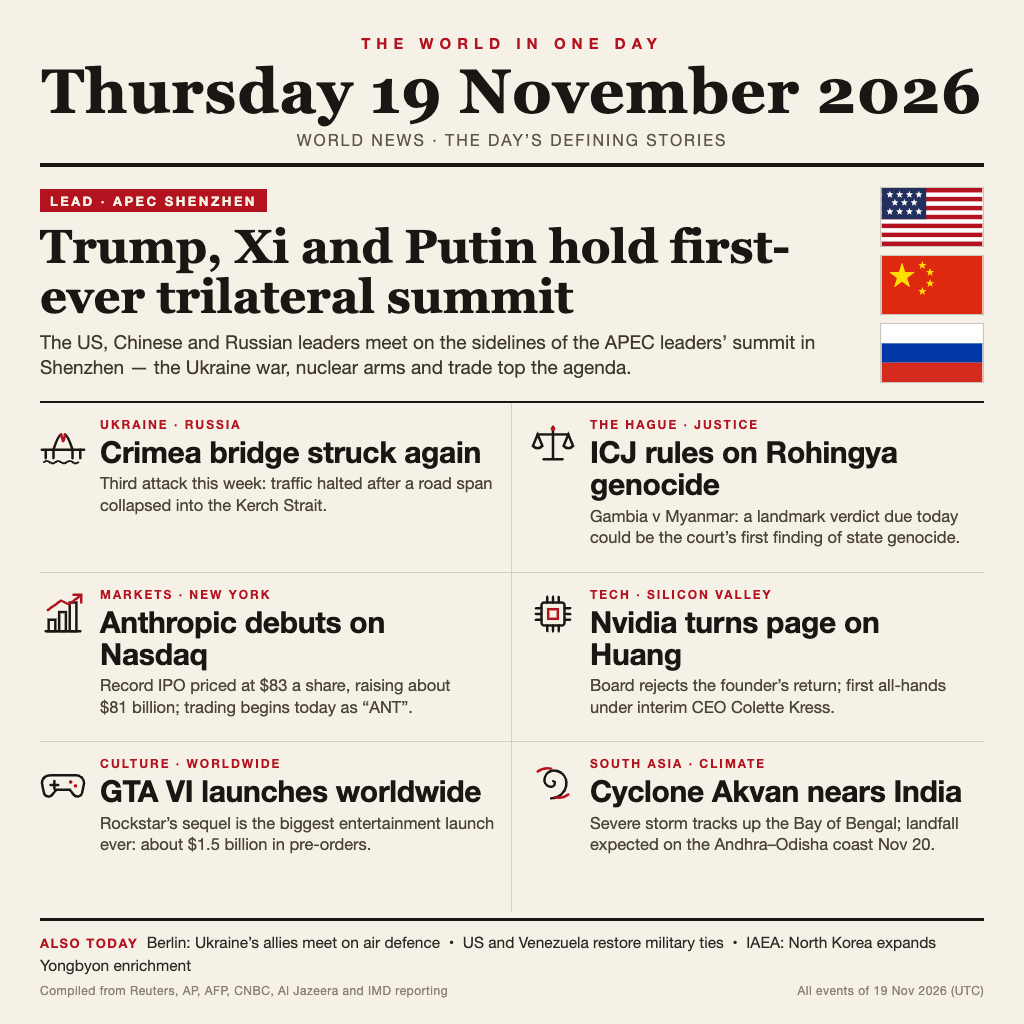
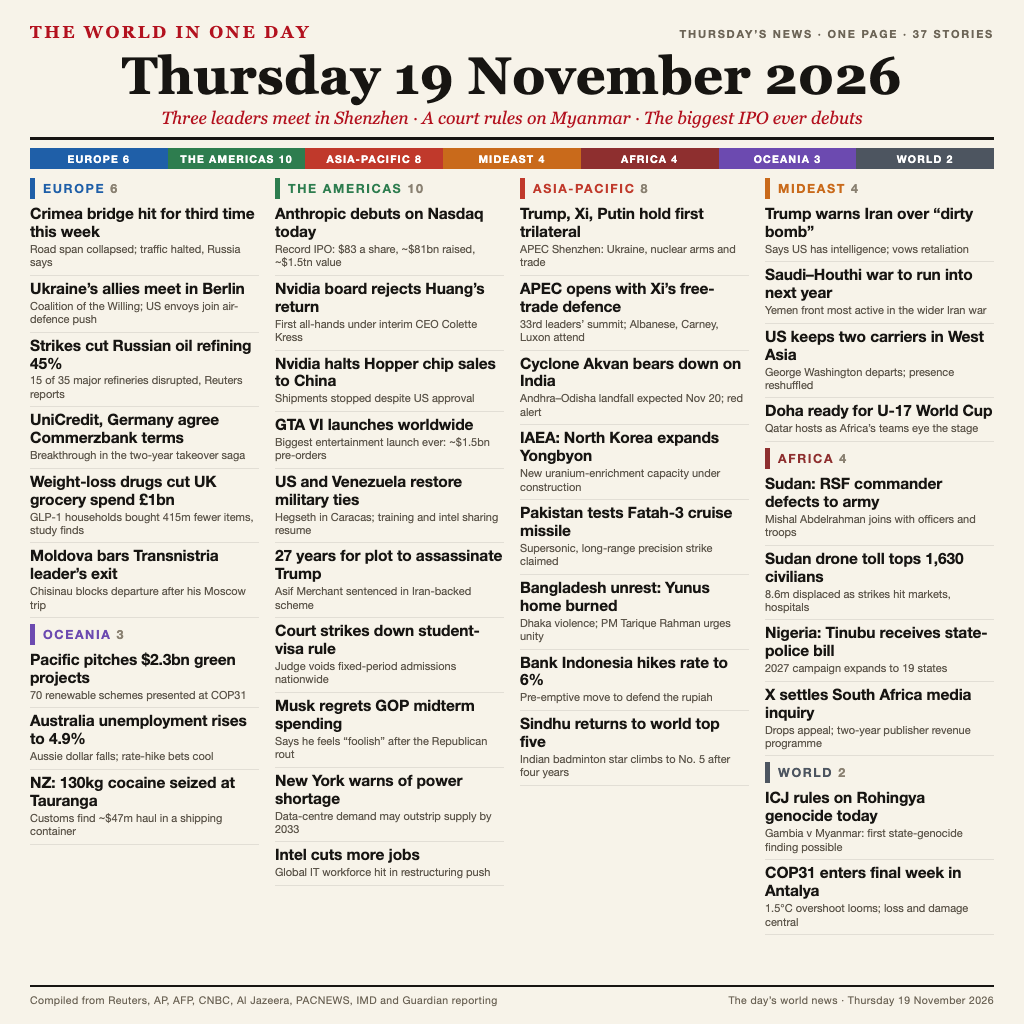
feat: 37-story seven-region front page for 19 Nov 2026

Changed region(s): [[0.0312, 0.0312, 0.9688, 1.0]]

diff --git a/README.md b/README.md
@@ -4,7 +4,7 @@
 [![rank](https://make.fun/badge/news-image-20261119/aliftrd/news-image-20261119/rank.svg)](https://make.fun/bounty/news-image-20261119/leaderboard?utm_source=github&utm_medium=readme&utm_campaign=news-image-20261119)
 [![reward](https://make.fun/badge/news-image-20261119/aliftrd/news-image-20261119/reward.svg)](https://make.fun/bounty/news-image-20261119?utm_source=github&utm_medium=readme&utm_campaign=news-image-20261119)
 
-A one-day world-news digest: the program copies a rendered 1024×1024 front-page poster summarising Thursday 19 November 2026 — the Trump–Xi–Putin trilateral at APEC Shenzhen, the Crimea bridge strike, the ICJ's Rohingya genocide judgment, Anthropic's record IPO debut on Nasdaq, Nvidia's first all-hands after Jensen Huang, GTA VI's worldwide launch and Cyclone Akvan — to `/output/entry.png`, byte for byte, with no network.
+A one-day world-news digest: the program copies a rendered 1024×1024 front page — 37 stories across seven regions, led by the Trump–Xi–Putin trilateral at APEC Shenzhen, the ICJ's Rohingya genocide judgment and Anthropic's record IPO debut on Nasdaq — to `/output/entry.png`, byte for byte, with no network.
 
 ## Run it
 
